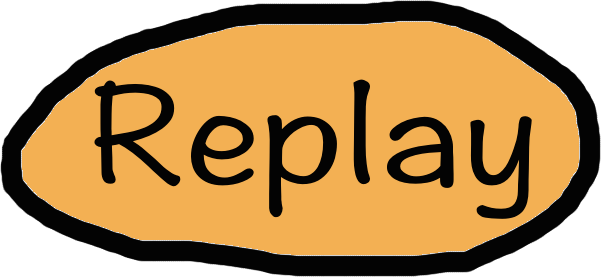
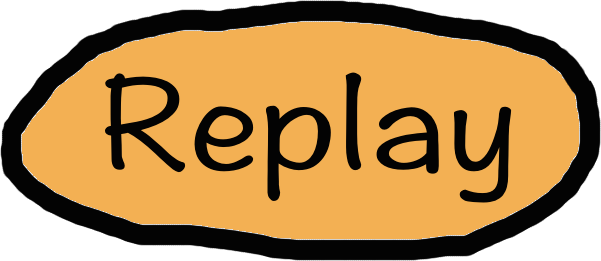
slimmed down replay button

diff --git a/FallingFish/DeathScreenView.swift b/FallingFish/DeathScreenView.swift
@@ -77,7 +77,7 @@ class DeathScreenView: UIView {
         self.addSubview(highScoreLabel)
         
         let replayWidth = self.frame.size.width/4
-        let replayHeight = replayWidth*(277.0/601.0)
+        let replayHeight = replayWidth*(261.0/601.0)
         let replayButton = UIButton.init(frame: CGRectMake(self.frame.width/4*3 - replayWidth/2, self.frame.height/4+labelHeight*4+2, replayWidth, replayHeight))
         replayButton.setImage(UIImage.init(named: "replayButton.png"), forState: UIControlState.Normal)
         replayButton.addTarget(self, action: "replayButtonPressed:", forControlEvents: UIControlEvents.TouchUpInside)
